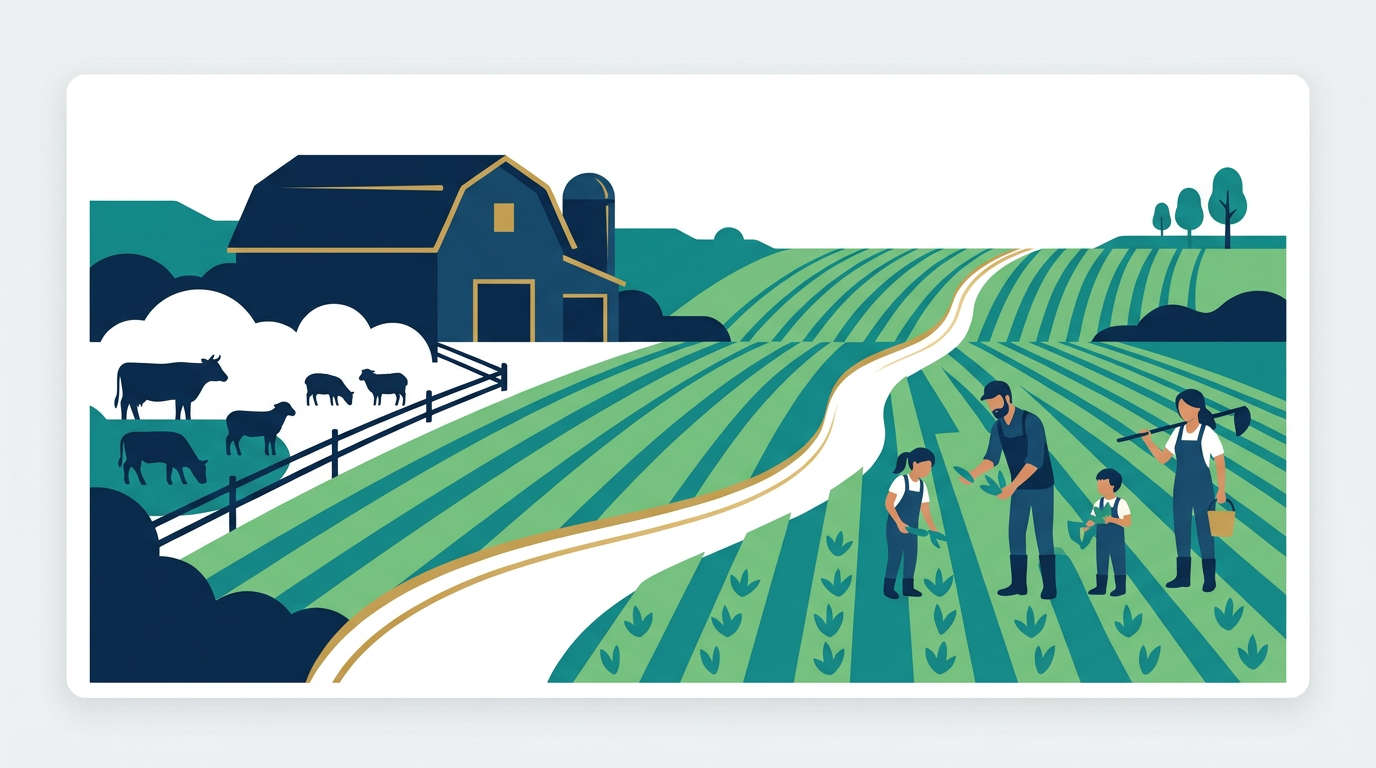
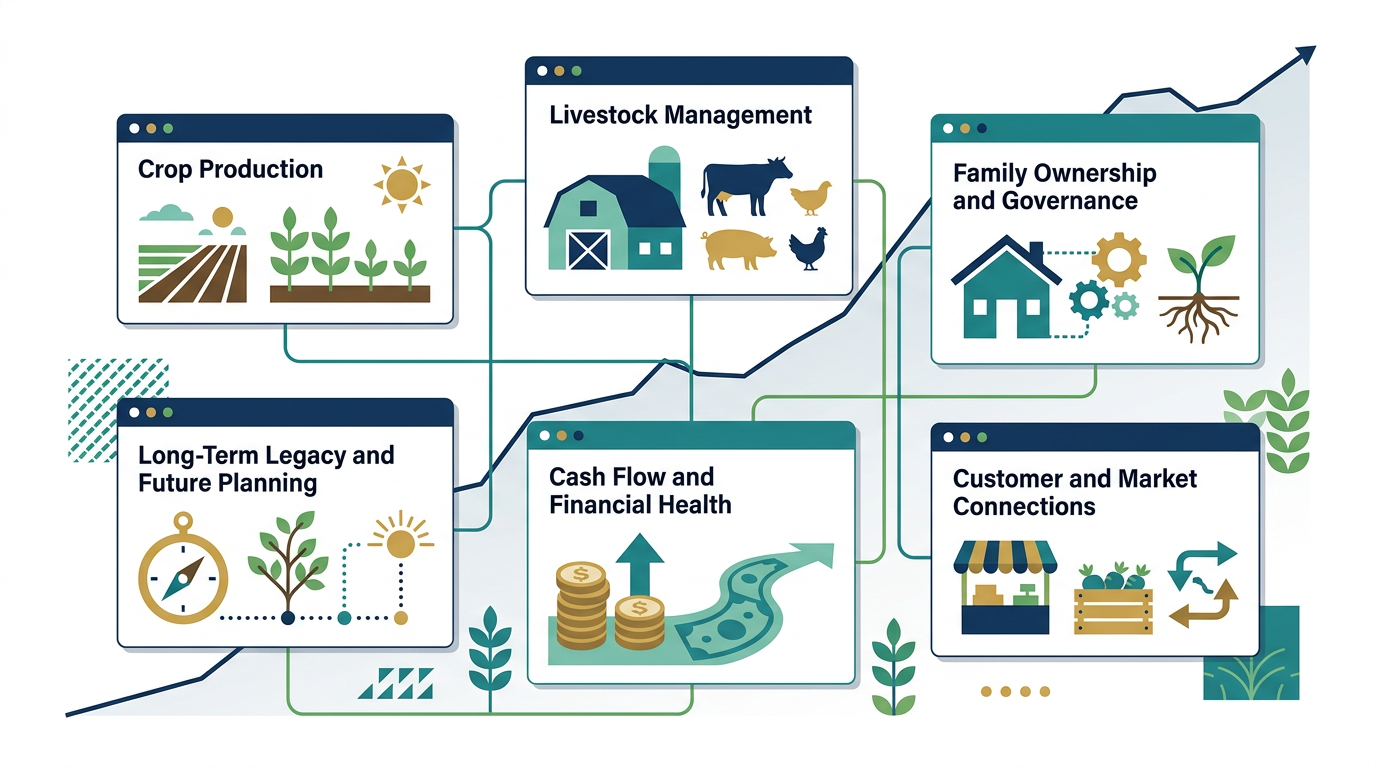
Replace farmer illustration with modern farm business infographic

diff --git a/src/App.jsx b/src/App.jsx
@@ -164,7 +164,7 @@ const Head = ({ eyebrow, title, sub }) => (
   </div>
 );
 
-// ────────────────────────────────────────────────────────��────────────────────
+// ────────────────────────────────────────────────────────���────────────────────
 // DATA
 // ─────────────────────────────────────────────────────────────────────────────
 const FA_STAGES = [
@@ -522,7 +522,7 @@ function FA1Registry({ fa, setFA }) {
   </div>;
 }
 
-// ─────────────────────────��───────��───────────────────────────────────────────
+// ─────────────────────────�����──────��───────────────────────────────────────────
 // FA STAGE 2 — Goal alignment
 // ─────────────────────────────────────────────────────────────────────────────
 function FA2({ fa, setFA }) {
@@ -571,7 +571,7 @@ function FA2({ fa, setFA }) {
   );
 }
 
-// ─────────────────────────────────────────────────────────���─────��─────────────
+// ───────────────────────────────────────────────────────���─���─────��─────────────
 // FA STAGE 3 — Ratio deep dive
 // ─────────────────────────────────────────────────────────────────────────────
 // Shared ratio engine for Financial Analysis Stage 3. Extracted to a single function so
@@ -2635,7 +2635,7 @@ function RD2({ rd, setRData }) {
   const Qs = [
     { key:"trigger", title:"What is prompting you to think about diversification?", opts:[["income","Add a new income stream","Grow total revenue beyond the primary commodity"],["risk","Reduce commodity price dependence","One bad year in grain or milk prices is too much exposure"],["assets","Put underutilized assets to work","Land, equipment or facilities that could generate more"],["succession","Build something to pass on","Diversification as part of a legacy and transition plan"],["curiosity","Understand my options first","No specific trigger — want to see what's possible"]] },
     { key:"horizon", title:"What time horizon are you planning for?", opts:[["1yr","First revenue within 12 months","Need results quickly"],["3yr","Building toward a 3-year plan","Willing to invest in groundwork now"],["5yr","Long-term structural change","A fundamental shift in how the farm generates income"]] },
-    { key:"capitalAppetite", title:"How much capital are you willing to invest?", opts:[["zero","$0 ��� no-capital paths only","Revenue from existing assets only"],["low","Under $10K","Small pilot investment"],["medium","$10K–$50K","Moderate investment if the return case is clear"],["high","$50K+","Meaningful investment for the right opportunity"]] },
+    { key:"capitalAppetite", title:"How much capital are you willing to invest?", opts:[["zero","$0 ����� no-capital paths only","Revenue from existing assets only"],["low","Under $10K","Small pilot investment"],["medium","$10K–$50K","Moderate investment if the return case is clear"],["high","$50K+","Meaningful investment for the right opportunity"]] },
     { key:"timeAppetite", title:"How much personal time can you commit?", opts:[["minimal","Less than 5 hours/week","Largely passive or handled by existing labor"],["moderate","5–15 hours/week","Can add a side activity without sacrificing core operations"],["significant","15+ hours/week","Willing to restructure around a new primary activity"]] },
   ];
   const Radio = ({ on }) => <div style={{ width:18, height:18, borderRadius:"50%", border:`2px solid ${on?T.blue:T.border}`, display:"flex", alignItems:"center", justifyContent:"center", flexShrink:0 }}>{on && <div style={{ width:8, height:8, borderRadius:"50%", background:T.blue }} />}</div>;
@@ -2853,7 +2853,7 @@ function RD5({ rd, setRData }) {
       </div>
       {maxReg>=3 && (
         <div style={cardStyle({ borderTop:`4px solid ${T.amber}` })}>
-          <div style={cardLblStyle()}><Apex color={T.amber} />Regulatory & compliance review — before you commit capital</div>
+          <div style={cardLblStyle()}><Apex color={T.amber} />Regulatory & compliance review ��� before you commit capital</div>
           <div style={{ fontSize:12.5, color:T.fgM, marginBottom:12, lineHeight:1.5 }}>At least one selected path carries meaningful regulatory load. Review these before signing contracts, leases, or making capital purchases.</div>
           {Object.entries(COMPLIANCE_ITEMS).map(([key,text]) => {
             const on = complianceAcked[key];
@@ -3297,7 +3297,7 @@ function EfficiencyValueImpact({ sel, lev }) {
   );
 }
 
-// ══════���═════════════════════════════════════════════��═══════����═════��══════��═══
+// ══════���════════════════════════════════════════��════��═══════����═════��══════��═══
 // FARM PROFILE — a single 360° farm view that fills in as the farmer completes
 // onboarding and assessments, and feeds relevant fields back into FA, RD, and Risk
 // so nothing has to be entered twice.
@@ -4705,7 +4705,7 @@ function LEG9({ leg, setLegData }) {
   );
 }
 
-// ── Stage 8 — Triggers & contingencies ─────────────────────���────────��────────
+// ── Stage 8 — Triggers & contingencies ────────────────���────���────────��────────
 function LEG10({ leg, setLegData }) {
   const d = leg.data || {};
   const c = d.contingency || {};
@@ -5577,7 +5577,7 @@ function VIS1({ vis, setVis, profile, goProfile }) {
   return (
     <div>
       <Head eyebrow="Strategic vision · Stage 1" title="Competitive advantage" sub="Start with the reason customers, employees, landlords, or partners choose this operation over another." />
-      <div style={{ display:"grid", gridTemplateColumns:"minmax(0,1fr) minmax(280px,420px)", gap:24, alignItems:"center", marginBottom:24, padding:"22px 0", borderBottom:`1px solid ${T.div}` }}><div><div style={cardLblStyle()}>The capability behind the farm</div><p style={{ fontSize:15, color:T.fgM, lineHeight:1.55, margin:0, maxWidth:560 }}>What can this operation do exceptionally well—and what would be difficult for another farm to copy?</p></div><img src="/vision-competitive-advantage.png" alt="Farm capabilities represented by crops, livestock, people, and a path forward" style={{ width:"100%", height:180, objectFit:"cover", borderRadius:16 }} /></div>
+      <div style={{ display:"grid", gridTemplateColumns:"minmax(0,1fr) minmax(280px,420px)", gap:24, alignItems:"center", marginBottom:24, padding:"22px 0", borderBottom:`1px solid ${T.div}` }}><div><div style={cardLblStyle()}>The capability behind the farm</div><p style={{ fontSize:15, color:T.fgM, lineHeight:1.55, margin:0, maxWidth:560 }}>What can this operation do exceptionally well—and what would be difficult for another farm to copy?</p></div><img src="/vision-competitive-advantage.png" alt="Infographic connecting farm enterprises, family ownership, cash flow, customers, and long-term growth" style={{ width:"100%", height:180, objectFit:"cover", borderRadius:16 }} /></div>
       {!hasProfile && (<>
         <Flag type="warn">Your Farm Profile does not have competitive advantage, core values, or objectives filled in yet. You can add items here directly, or fill the profile first.
           {goProfile && <div style={{ marginTop:9 }}><button onClick={goProfile} style={{ ...btnStyle("outline"), fontSize:12, padding:"6px 13px" }}>Open Farm Profile</button></div>}
@@ -5870,7 +5870,7 @@ function VIS5({ vis, setVis, goLegacy }) {
   );
 }
 
-// ── Vision 6 — Where it binds ───────────────────────────────��────���───────────
+// ── Vision 6 — Where it binds ──────��────────────────────────��────���───────────
 function VIS6({ vis, setVis }) {
   const rules = vis.rules || [];
   const toggle = (i, bindId) => {
@@ -6019,7 +6019,7 @@ function VIS_PROFILE({ vis, profile, setProfile, goFA, fa }) {
   return <div><Head eyebrow="Strategic Vision · Profile and SWOT" title="Farm profile and SWOT" sub="This section combines the farm profile, JSON import, and vision-derived SWOT. It stays intentionally empty until the first two vision steps or an uploaded profile provide content." /><div style={{ display:"flex", gap:24, alignItems:"flex-end", borderBottom:`1px solid ${T.border}`, marginBottom:24 }}><button type="button" onClick={()=>setProfileTab("profile")} style={{ background:"none", border:0, borderBottom:`3px solid ${profileTab==="profile"?T.blue:"transparent"}`, padding:"0 2px 12px", color:profileTab==="profile"?T.blue:T.fgS, fontWeight:700, cursor:"pointer" }}>Farm Profile</button><button type="button" onClick={()=>setProfileTab("swot")} style={{ background:"none", border:0, borderBottom:`3px solid ${profileTab==="swot"?T.blue:"transparent"}`, padding:"0 2px 12px", color:profileTab==="swot"?T.blue:T.fgS, fontWeight:700, cursor:"pointer" }}>Farm SWOT</button><button type="button" onClick={()=>setProfileTab("glance")} style={{ background:"none", border:0, borderBottom:`3px solid ${profileTab==="glance"?T.blue:"transparent"}`, padding:"0 2px 12px", color:profileTab==="glance"?T.blue:T.fgS, fontWeight:700, cursor:"pointer" }}>Business at a glance</button></div><div style={{ display:profileTab==="profile"?"block":"none" }}><div style={cardStyle({ borderTop:`4px solid ${T.blue}` })}><div style={cardLblStyle()}>Bring in an existing profile</div><p style={{ color:T.fgM, fontSize:13.5, lineHeight:1.5, marginTop:0 }}>Upload a Maximum Farm Potential JSON export to prefill these fields. The import stays in this working session until you save it.</p><input type="file" accept=".json,application/json" onChange={importJSON} /></div><div style={cardStyle()}><div style={cardLblStyle()}>Farm profile</div>{field("Farm name","name","e.g., Jensen Family Farms")}{field("Location","location","State and county")}{field("Size and production mix","productionMix","Acres, livestock, and primary enterprises",true)}{field("Business ventures beyond production","ventures","Services, shops, leases, or other ventures",true)}{field("Near-term objective","nearTerm","What should improve in the next 1–3 years?",true)}{field("Long-term direction","longTerm","Where is the farm headed?",true)}{field("Core values","values","What will this operation not trade away?",true)}{field("Competitive advantage","advantage","What makes this operation difficult to copy?",true)}</div></div><div style={{ display:profileTab==="swot"?"block":"none" }}><div style={{ display:"grid", gridTemplateColumns:"repeat(auto-fit,minmax(250px,1fr))", gap:14 }}>{box("Strengths",hasVisionInputs?swot.strengths:"",T.green)}{box("Weaknesses / trade-offs",hasVisionInputs?swot.weaknesses:"",T.amber)}{box("Opportunities",hasVisionInputs?swot.opportunities:"",T.blue)}{box("Threats / conditions",hasVisionInputs?swot.threats:"",T.red)}</div></div><div style={{ display:profileTab==="glance"?"block":"none" }}><div style={cardStyle()}><div style={cardLblStyle()}>Business at a glance</div><div style={{ display:"grid", gridTemplateColumns:"repeat(auto-fit,minmax(220px,1fr))", gap:12 }}>{[["Farm name",draft.name],["Location",draft.location],["Production mix",draft.productionMix],["Near-term direction",draft.nearTerm],["Financial basis",fa?.accounting?.basis],["Working capital",fa?.budget ? `$${((Number(fa.budget.cash)||0)+(Number(fa.budget.line)||0)-(Number(fa.budget.committed)||0)-(Number(fa.budget.debt)||0)).toLocaleString()}` : ""]].map(([label,value])=><div key={label} style={{ padding:14, background:value?T.bgAlt:"#f2f4f6", borderRadius:8, color:value?T.navy:T.fgS }}><div style={{ fontSize:11, fontWeight:700, textTransform:"uppercase", letterSpacing:"0.05em", marginBottom:5 }}>{label}</div><div style={{ fontSize:14 }}>{value||"Not updated yet"}</div></div>)}</div><p style={{ color:T.fgS, fontSize:12.5, lineHeight:1.5, marginBottom:0 }}>Financial values update from Financial Analysis as records, budgets, and working capital assumptions are completed.</p></div></div><div style={cardStyle({ background:T.blueL, borderColor:"#c8d9e8", marginTop:16 })}><strong>Save profile for Eagle Eye and MFP modules</strong><p style={{ margin:"5px 0 13px", color:T.fgM, fontSize:13, lineHeight:1.5 }}>Saving makes the profile available to Eagle Eye Intelligence, Financial Analysis, Revenue Diversification, and Farm Risk.</p><button type="button" onClick={() => { save(); goFA(1); }} style={btnStyle("primary")}>Save profile and continue to Financial Analysis →</button></div></div>;
 }
 
-// ── Vision 9 — The document ────────────────────���─────────────────────────────
+// ── Vision 9 — The document ────────��───────────���─────────────────────────────
 // Renders ONLY approved sections. Everything diagnostic stays in the working
 // record: demoted claims, person-dependent advantages, cost-test answers and the
 // who-holds-this ratings never appear here. Publishing a document that names a
